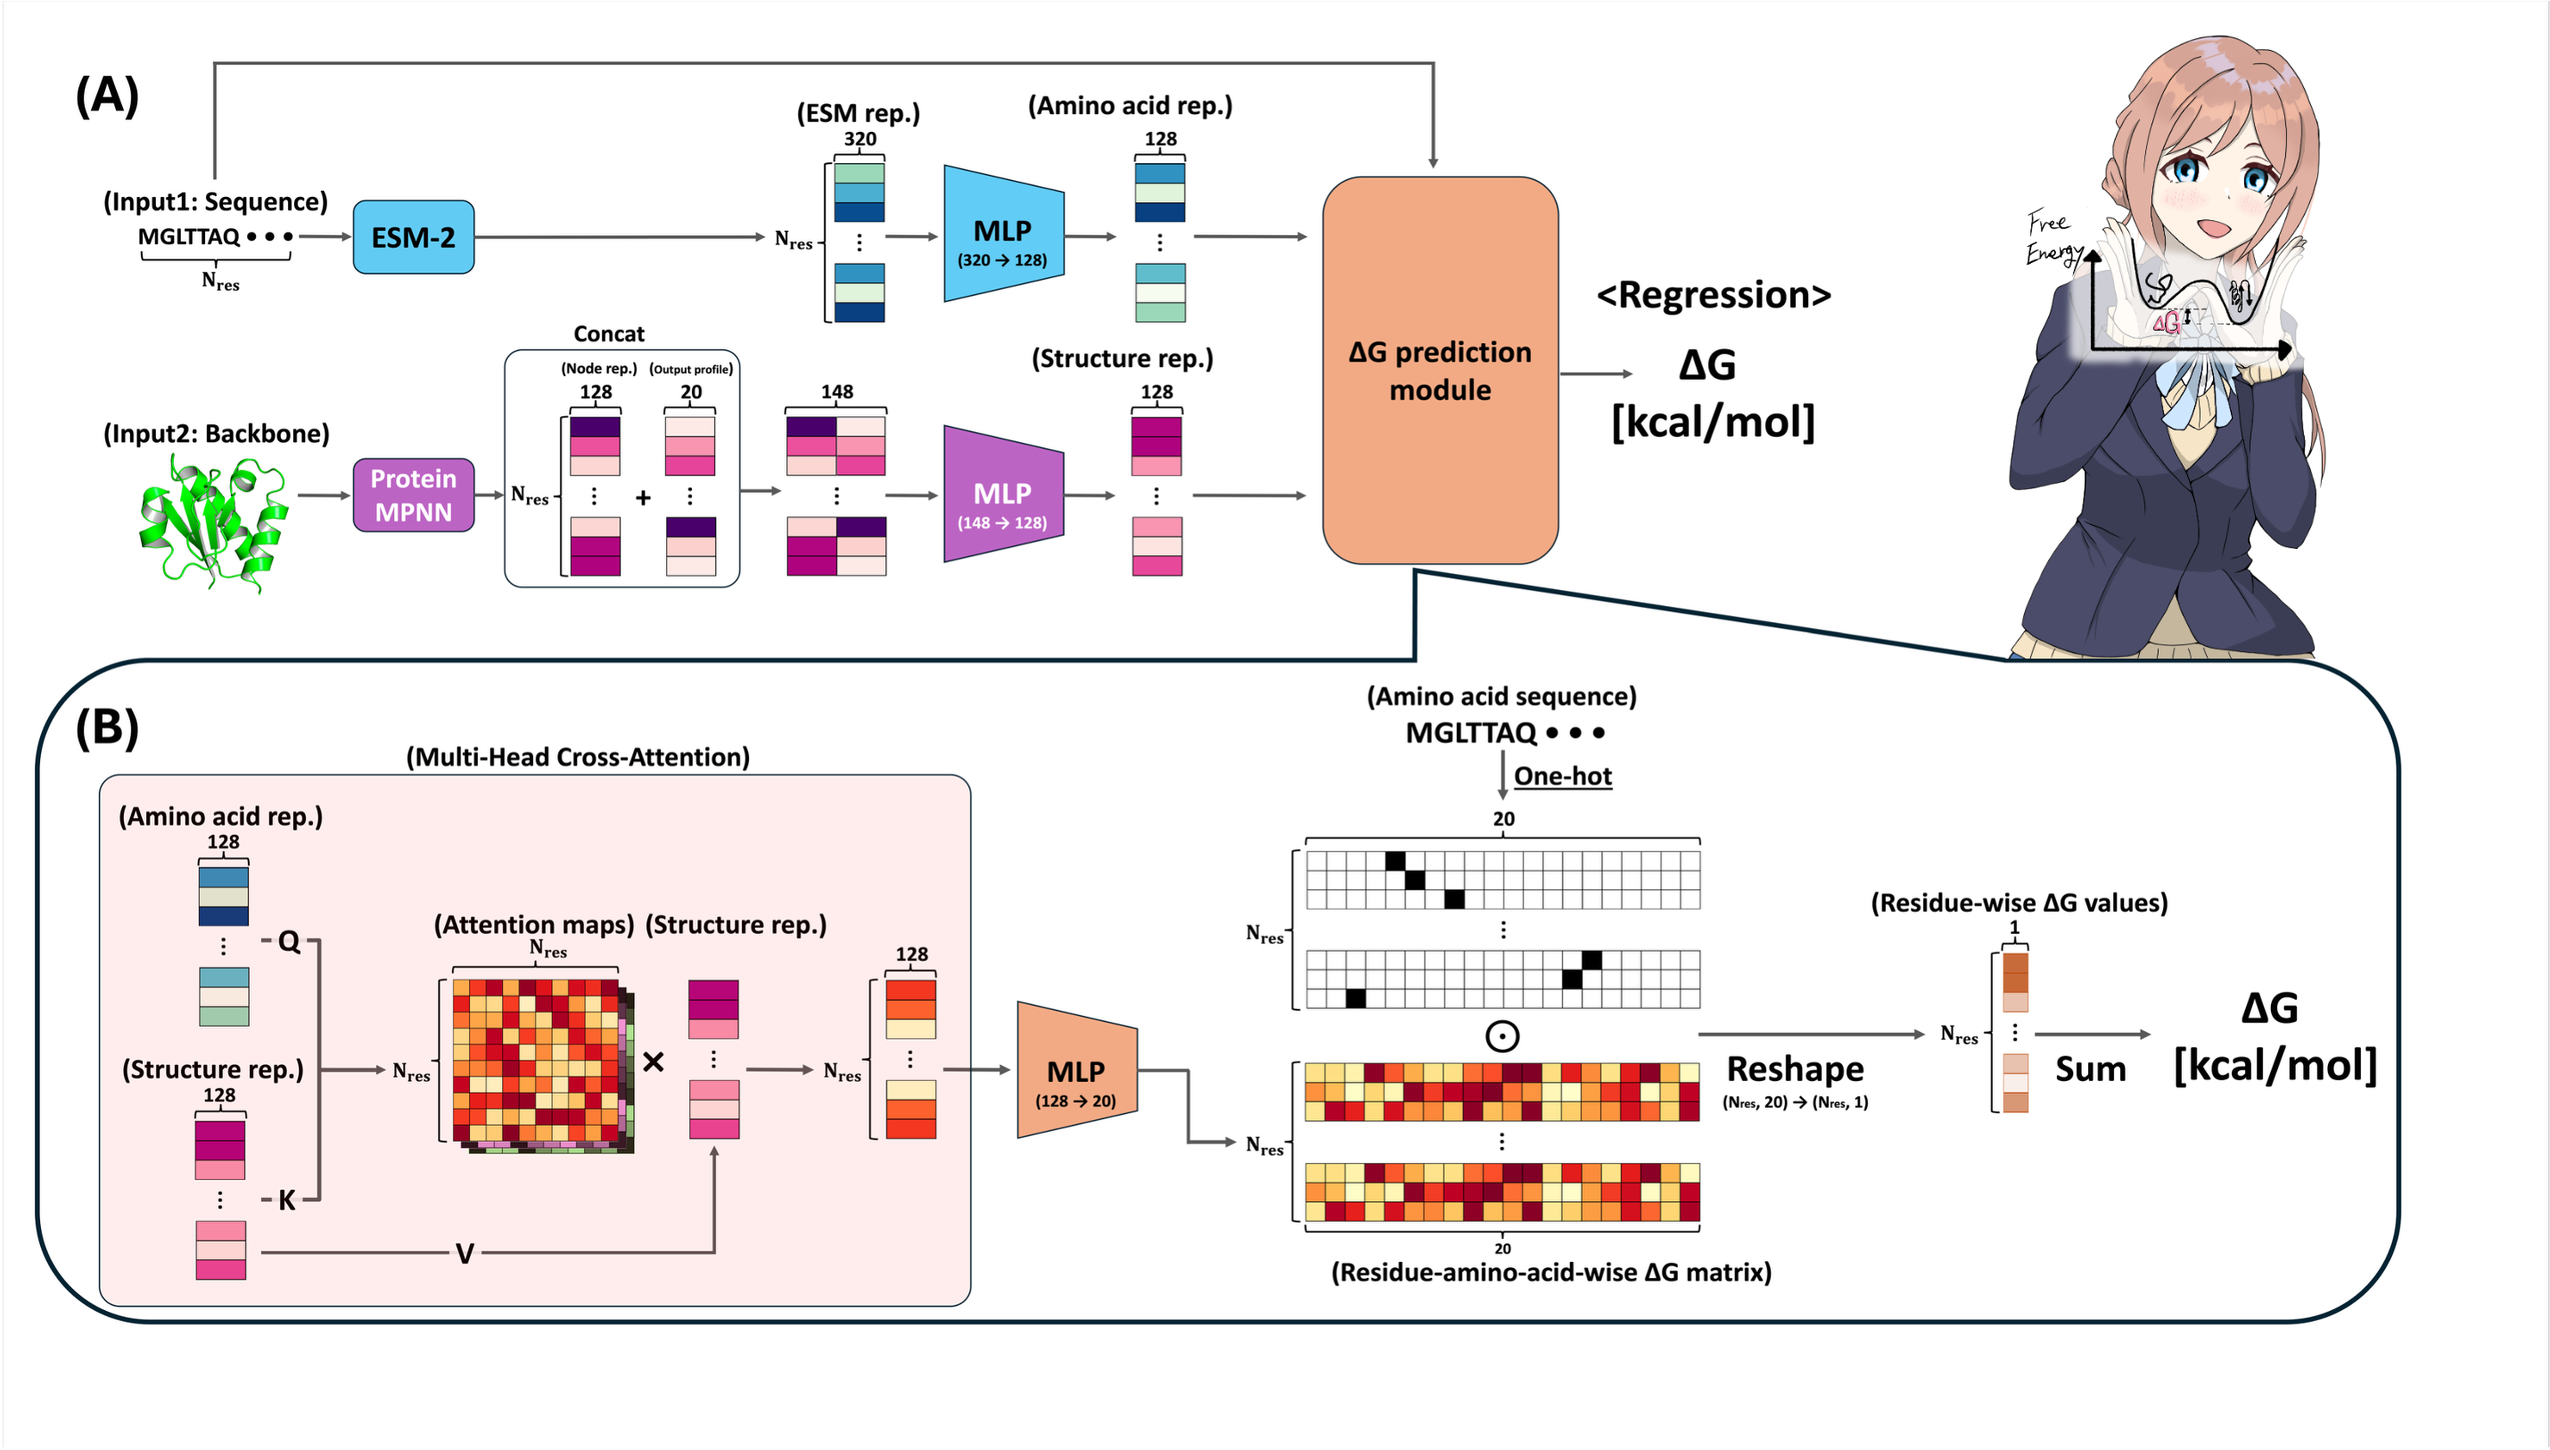
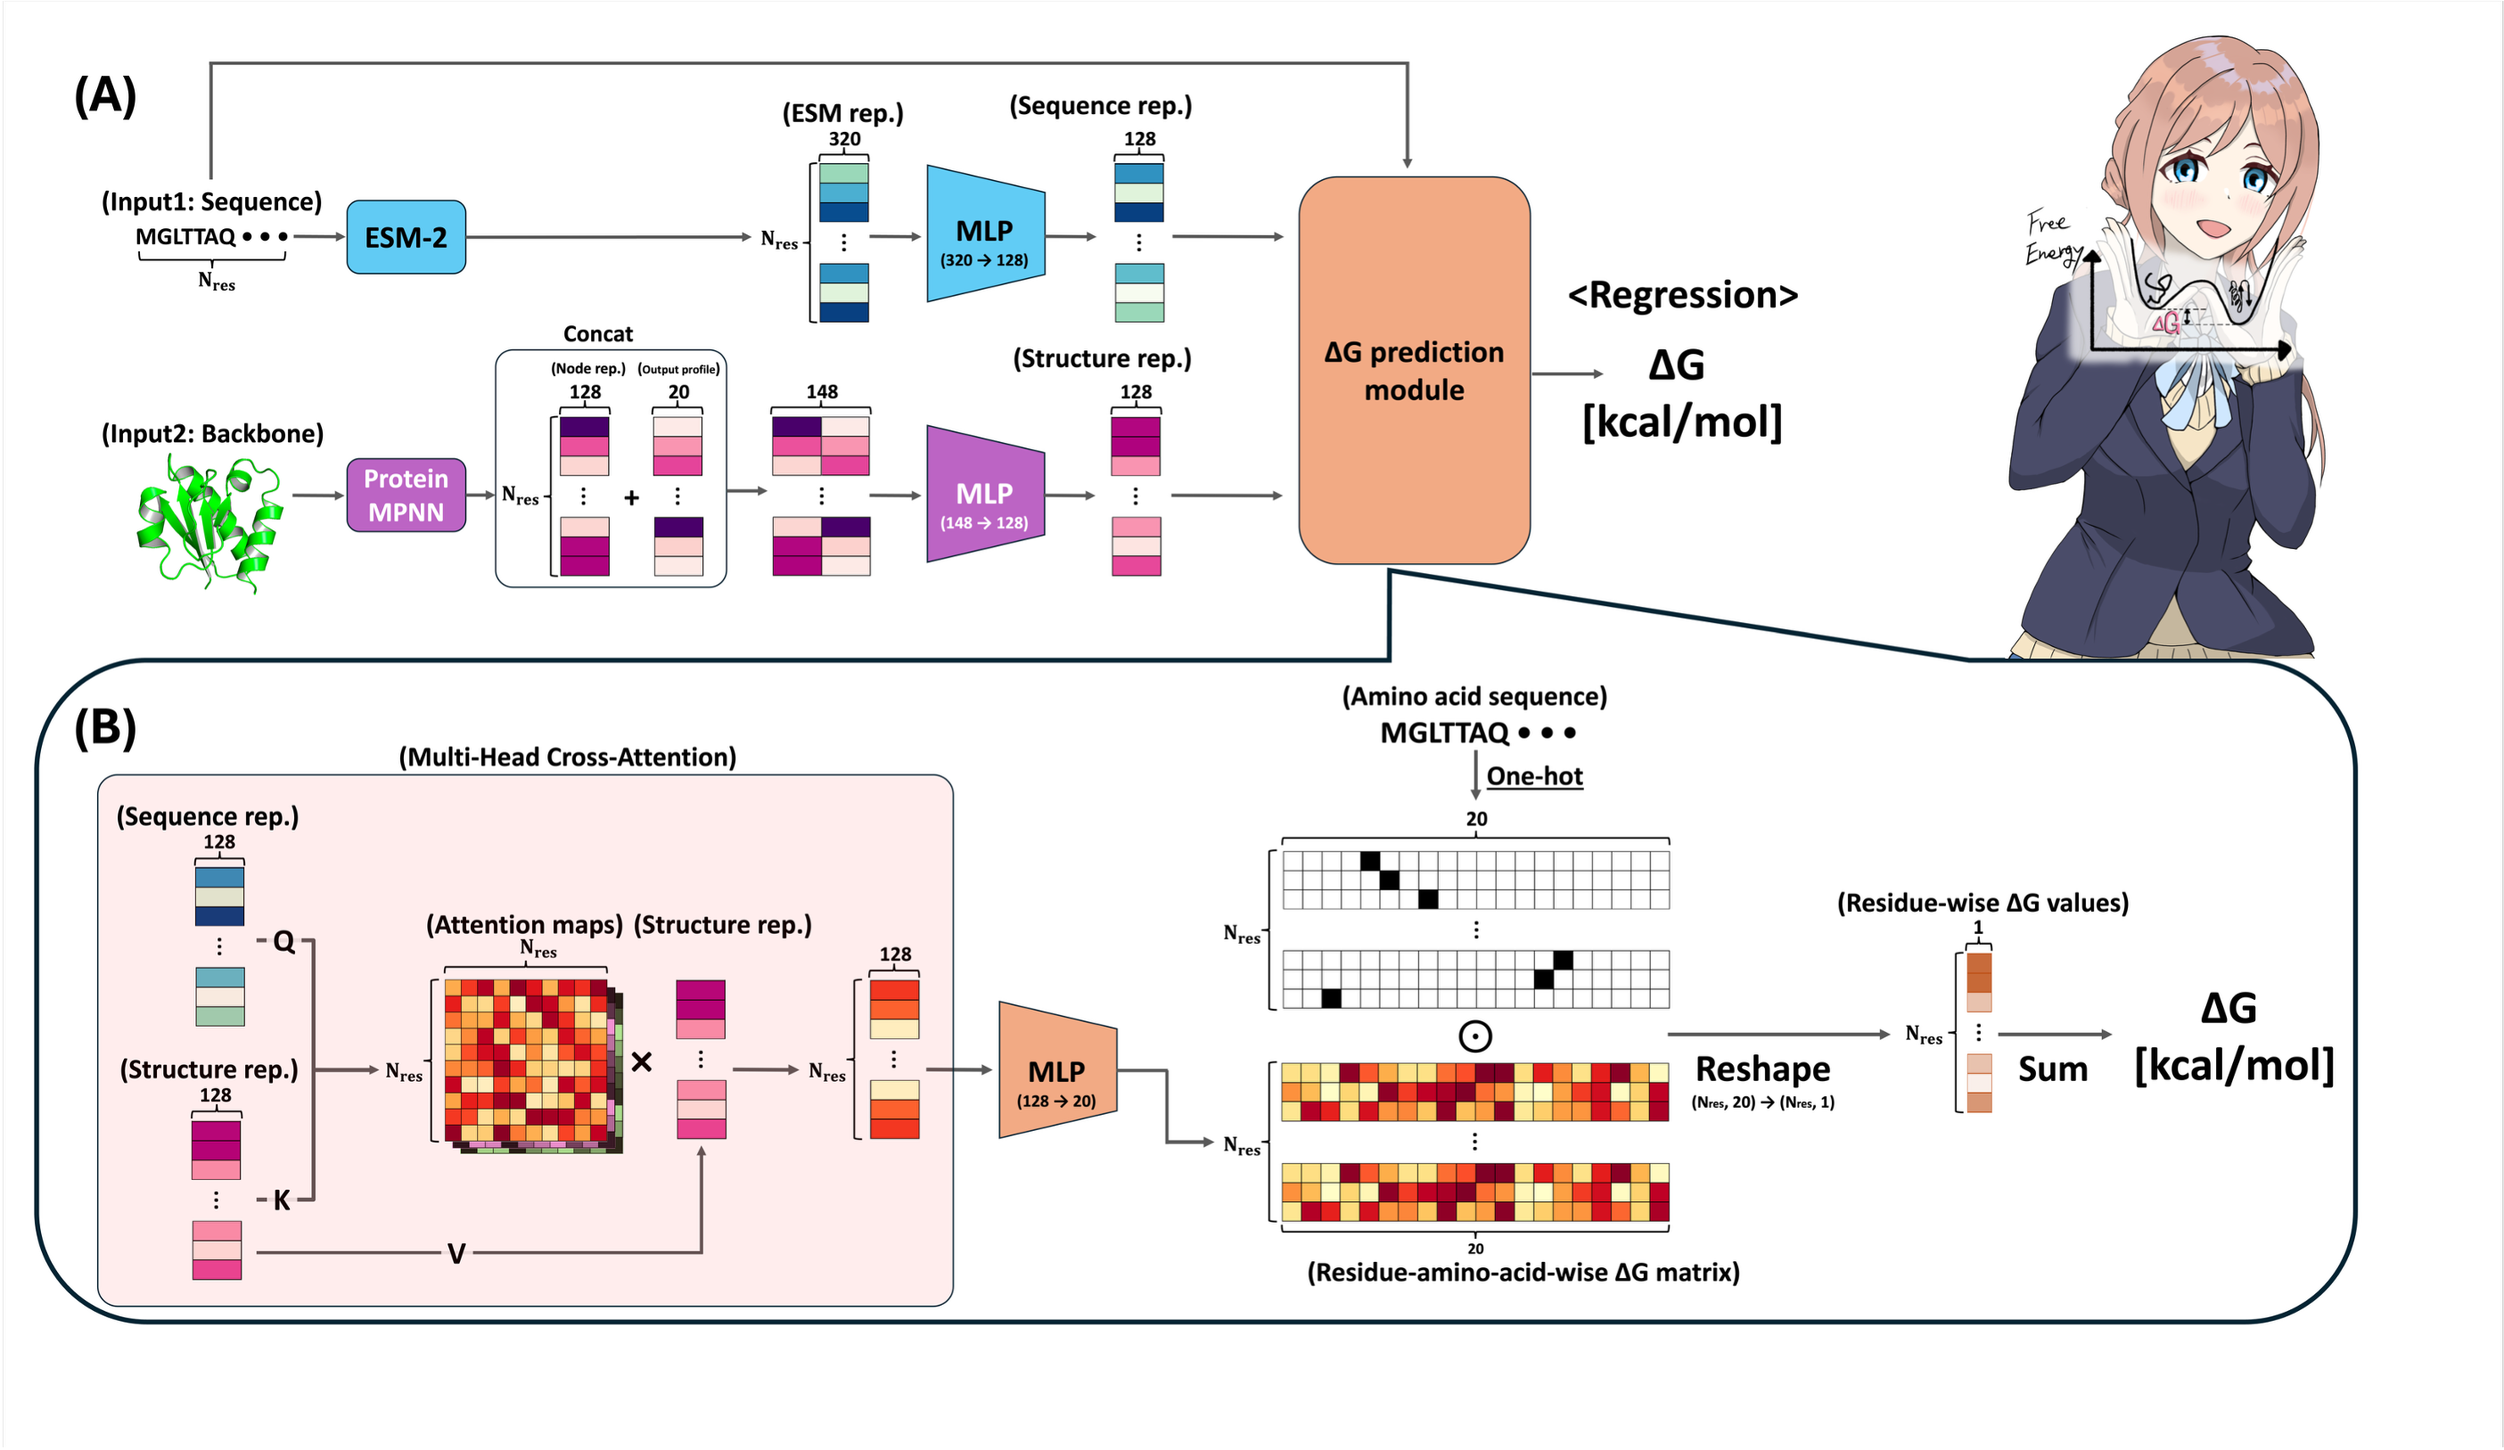
Edited README.

Changed region(s): [[0.7743, 0.0, 0.9292, 0.461], [0.4026, 0.0615, 0.4956, 0.0922], [0.031, 0.5532, 0.1239, 0.5839]]

diff --git a/model/layers.py b/model/layers.py
@@ -126,44 +126,46 @@ class aa_seq2representation(nn.Module):
 ####################################################################
 class MultiHeadCrossAttention(nn.Module):
     """
-    drug: (batch_size, drug_len, drug_dim)
-    target: (batch_size, target_len, target_dim)
-    calculate attention score between drug and target
+    Args:
+    - sequence representation : (batch_size, seq_len, seq_dim)
+    - structure representation: (batch_size, struct_len, struct_dim)
+    Returns:
+    - reweighted structure representation: (batch_size, struct_len, struct_dim)
     """
 
-    def __init__(self, drug_dim=768, target_dim=2560, heads=12, dim_head=128):
+    def __init__(self, seq_dim=128, struct_dim=120, heads=20, dim_head=128):
         super().__init__()
-        self.drug_dim = drug_dim
-        self.target_dim = target_dim
+        self.seq_dim = seq_dim
+        self.struct_dim = struct_dim
         self.heads = heads
         self.scale = dim_head ** -0.5
 
-        self.to_q = nn.Linear(drug_dim, heads * dim_head, bias=False)
-        self.to_k = nn.Linear(target_dim, heads * dim_head, bias=False)
-        self.to_v = nn.Linear(target_dim, heads * dim_head, bias=False)
-        self.to_out = nn.Linear(heads * dim_head, target_dim)
+        self.to_q = nn.Linear(seq_dim, heads * dim_head, bias=False)
+        self.to_k = nn.Linear(struct_dim, heads * dim_head, bias=False)
+        self.to_v = nn.Linear(struct_dim, heads * dim_head, bias=False)
+        self.to_out = nn.Linear(heads * dim_head, struct_dim)
         
-        self.layer_norm = nn.LayerNorm(target_dim)
+        self.layer_norm = nn.LayerNorm(struct_dim)
 
-    def forward(self, drug, target, drug_mask, pro_mask, attn_map_out=False):
-        b, n, _, h = *drug.shape, self.heads
+    def forward(self, sequence, structure, seq_mask, struct_mask, attn_map_out=False):
+        b, n, _, h = *sequence.shape, self.heads
         
         # Project drug into query space
-        q = self.to_q(drug).view(b, n, self.heads, -1).transpose(1, 2)
+        q = self.to_q(sequence).view(b, n, self.heads, -1).transpose(1, 2)
         
         # Project target into key and value space
-        target_len = target.shape[1]
-        k = self.to_k(target).view(b, target_len, self.heads, -1).transpose(1, 2)
-        v = self.to_v(target).view(b, target_len, self.heads, -1).transpose(1, 2)
+        struct_len = struct.shape[1]
+        k = self.to_k(struct).view(b, struct_len, self.heads, -1).transpose(1, 2)
+        v = self.to_v(struct).view(b, struct_len, self.heads, -1).transpose(1, 2)
         
-        # Compute attention scores
+        # Compute attention weights
         dots = torch.matmul(q, k.transpose(-2, -1)) * self.scale
         
         # Apply masks
-        drug_mask = drug_mask.unsqueeze(1).unsqueeze(-1).expand(-1, self.heads, n, target_len)
-        masked_dots = dots.masked_fill(drug_mask == 0, -1e6)
-        pro_mask = pro_mask.unsqueeze(1).unsqueeze(-2).expand(-1, self.heads, n, target_len)
-        masked_dots = masked_dots.masked_fill(pro_mask == 0, -1e6)
+        seq_mask = seq_mask.unsqueeze(1).unsqueeze(-1).expand(-1, self.heads, n, struct_len)
+        masked_dots = dots.masked_fill(seq_mask == 0, -1e6)
+        struct_mask = struct_mask.unsqueeze(1).unsqueeze(-2).expand(-1, self.heads, n, struct_len)
+        masked_dots = masked_dots.masked_fill(struct_mask == 0, -1e6)
         
         # Apply softmax to compute attention weights
         attn = F.softmax(masked_dots, dim=-1)
@@ -172,9 +174,8 @@ class MultiHeadCrossAttention(nn.Module):
         out = torch.matmul(attn, v)
         out = out.transpose(1, 2).contiguous().view(b, n, -1)
 
-        out = self.to_out(out) + target
-        
-        ##out = self.layer_norm(out) 
+        #skip connection
+        out = self.to_out(out) + structure
             
         if attn_map_out:
             return out, attn
